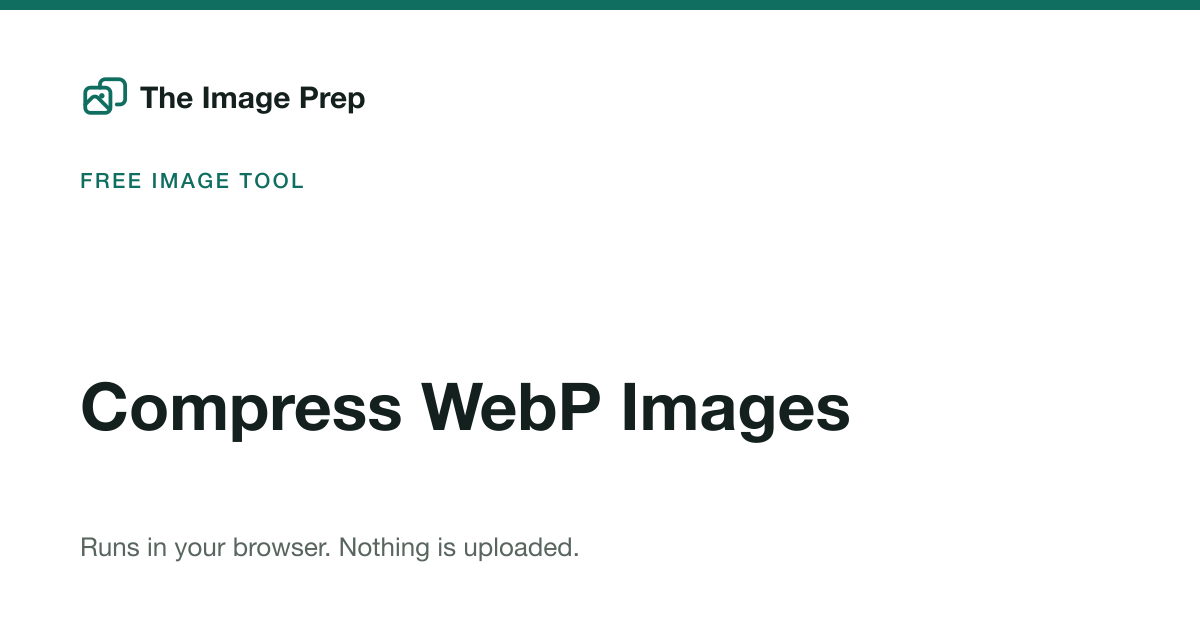
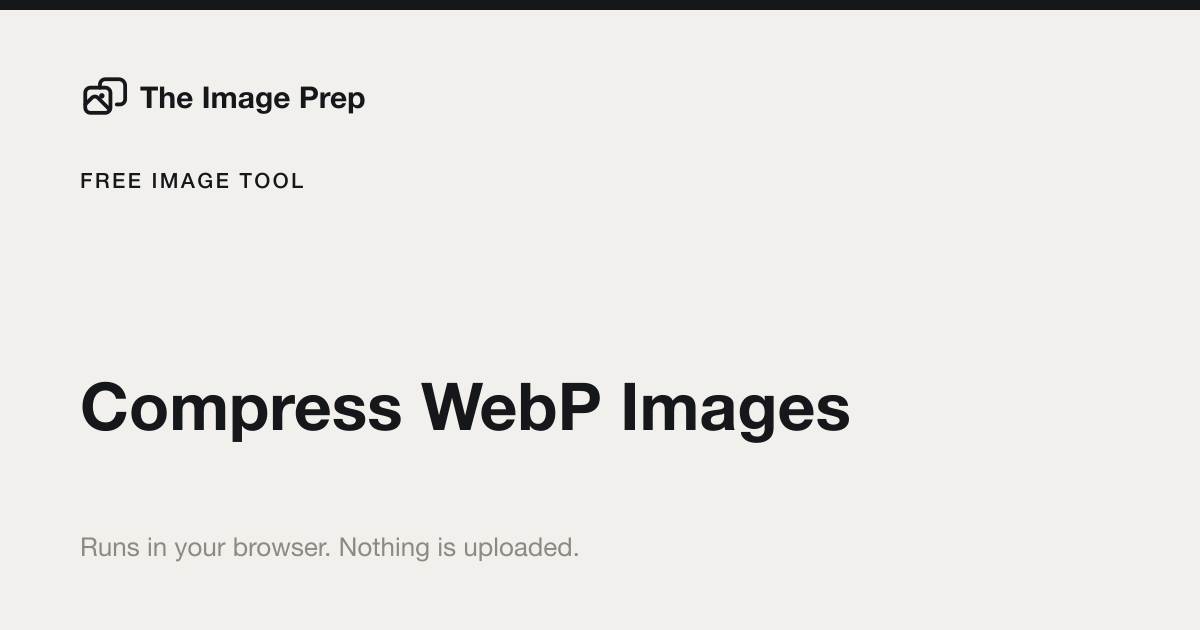
Commit to the light design, and update the brand assets that missed it
The source design is light-only. I had added an auto dark palette on the
reasoning that a night-time visitor should not get a bright page — but
side by side with the reference it reads as a different site rather than
the same one after dark, and anyone with their OS in dark mode never saw
the design at all. Removed.

`color-scheme: light` is declared explicitly and is load-bearing, not
decoration: without it a dark-mode visitor gets browser-default dark
range sliders, checkboxes and scrollbars painted onto a white page.

Also fixes a real miss in the redesign: the favicon, the 20 Open Graph
cards, the theme-color meta and the web manifest were all still carrying
the old teal palette, because they are generated by a script the CSS
change never touched. The brand mark is redrawn to match the header —
a solid square with a notch bitten out of the corner. Solid rather than
the previous 1.8px stroked outline, which collapsed into grey mush at
16 pixels.

223 checks green.

diff --git a/src/styles/global.css b/src/styles/global.css
@@ -132,56 +132,22 @@
 
   --header-height: 64px;
 
+  /*
+    Committing to light. The design is a warm-paper look with a near-black
+    accent, and it is the brand — an auto-inverted version was tried and read
+    as a different site rather than the same one at night.
+
+    This declaration is load-bearing, not decorative: without it a visitor
+    whose OS is in dark mode gets browser-default dark form controls — range
+    sliders, checkboxes, scrollbars — painted onto a white page, which looks
+    broken. Naming the scheme makes the browser render its own widgets light
+    to match.
+  */
+  color-scheme: light;
+
   /* Minimum touch target. Every interactive control references this rather
      than hard-coding a height, so the floor cannot drift as things are added. */
   --tap: 44px;
-}
-
-/*
-  Dark mode is not in the source design, which is light-only. Rather than
-  invent a palette, this is lifted from the design's own dark band — the
-  privacy section on the homepage — which already establishes what this brand
-  looks like inverted: #16171a ground, #1d1e22 raised, #33343a hairlines,
-  warm off-white text. Extending that is a derivation, not a guess.
-
-  Removing dark mode was the alternative and it is worse: anyone browsing at
-  night with a system preference set would get a full-brightness page.
-*/
-@media (prefers-color-scheme: dark) {
-  :root {
-    --paper: #121316;
-    --bg: #1a1b1f;
-    --bg-subtle: #202126;
-    --bg-inset: #26272b;
-    --bg-raised: #1d1e22;
-
-    --border: #33343a;
-    --border-light: #2a2b30;
-    --border-strong: #4a4b52;
-    --rule: #6f7079;
-
-    --text: #f2f0ec;
-    --text-body: #d6d3cd;
-    --text-muted: #a3a09a;
-    --text-faint: #8a8781;
-
-    --accent: #f2f0ec;
-    --accent-hover: #ffffff;
-    --accent-subtle: #26272b;
-    --accent-border: #6f7079;
-    --on-accent: #16171a;
-
-    --good: #6ec89b;
-    --good-subtle: #163024;
-    --danger: #ef8079;
-    --danger-subtle: #2e1917;
-    --warn: #dda250;
-    --warn-subtle: #2c2113;
-
-    --shadow-sm: 0 1px 2px rgb(0 0 0 / 0.4);
-    --shadow: 0 1px 3px rgb(0 0 0 / 0.5), 0 8px 24px rgb(0 0 0 / 0.35);
-    --shadow-lg: 0 2px 6px rgb(0 0 0 / 0.5), 0 18px 50px rgb(0 0 0 / 0.45);
-  }
 }
 
 /* ─────────────────────────────── RESET ──────────────────────────────────── */

diff --git a/src/pages/site.webmanifest.ts b/src/pages/site.webmanifest.ts
@@ -9,8 +9,8 @@ export const GET: APIRoute = () => {
     description: SITE.description,
     start_url: '/',
     display: 'standalone',
-    background_color: '#ffffff',
-    theme_color: '#0f6e60',
+    background_color: '#f2f0ec',
+    theme_color: '#f2f0ec',
     icons: [
       { src: '/android-chrome-192x192.png', sizes: '192x192', type: 'image/png' },
       { src: '/android-chrome-512x512.png', sizes: '512x512', type: 'image/png' },
